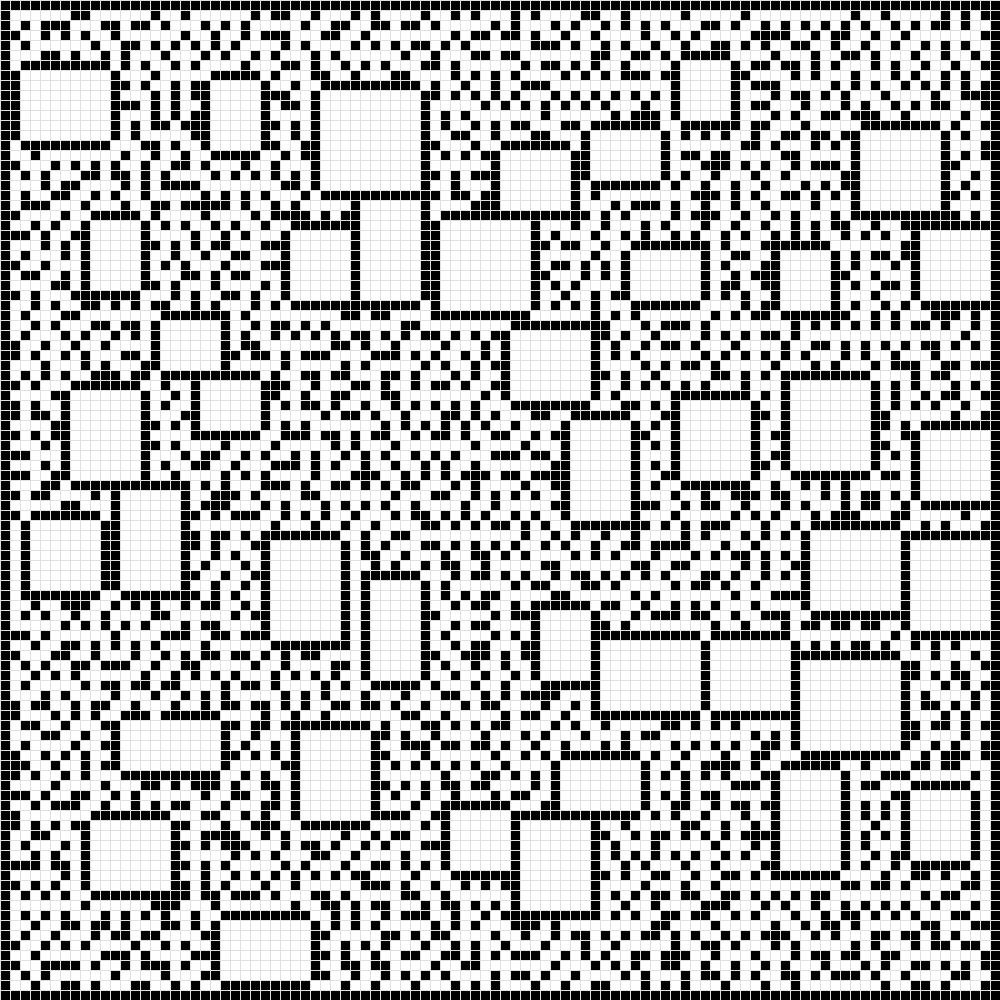
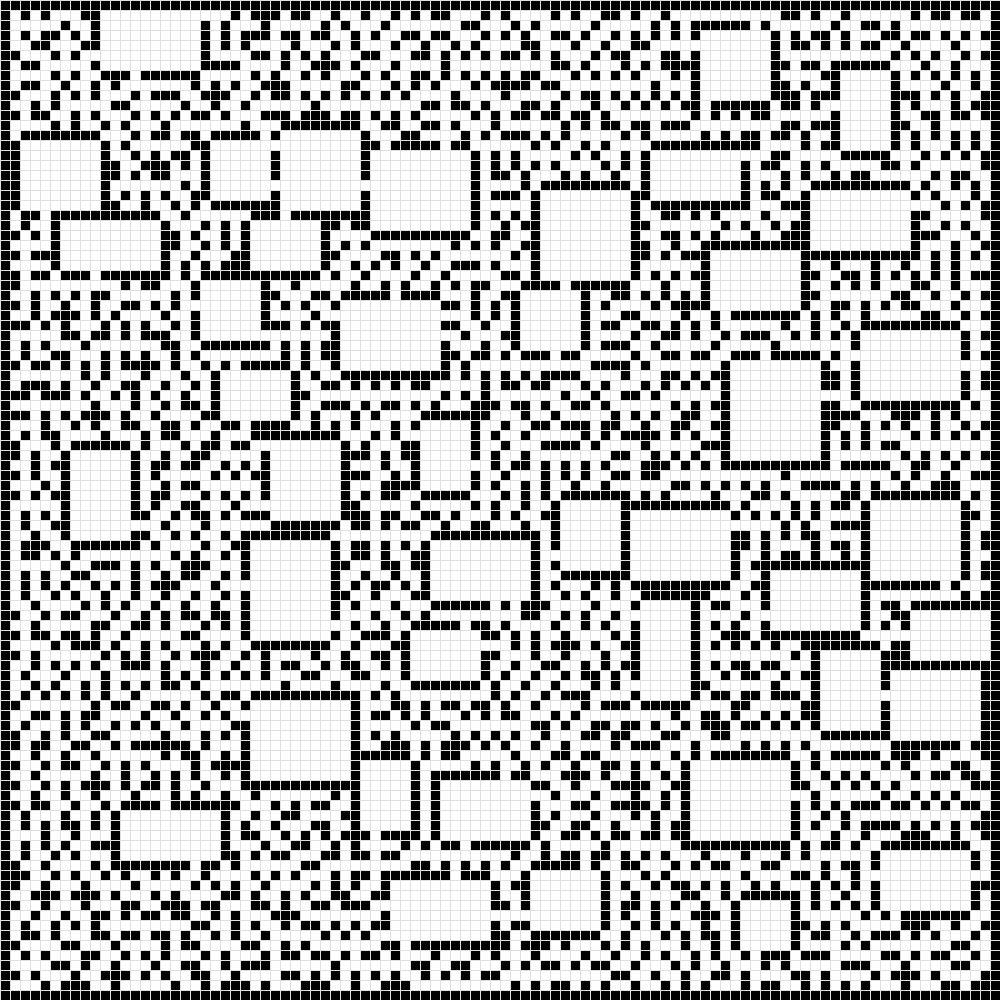
Corridors now connect to rooms correctly

diff --git a/src/services/maze_generation_service.py b/src/services/maze_generation_service.py
@@ -92,21 +92,23 @@ class MazeGenerationService:
         connections = self._get_connections()
         if connections:
             rand_connection = random.choice(list(connections.keys()))
-            origin_region = connections[rand_connection][1]
+            added_regions = {connections[rand_connection][0], connections[rand_connection][1]}
             self._map.occupy(rand_connection[0], rand_connection[1])
             self._maze_cells[rand_connection[0]][rand_connection[1]] = 'p'
             connections.pop(rand_connection)
-            """while connections:
+            while connections:
                 rand_connection = random.choice(list(connections.keys()))
-                if (connections[rand_connection][0] == origin_region
-                and connections[rand_connection][1] == origin_region):
+                if (connections[rand_connection][0] in added_regions
+                and connections[rand_connection][1] in added_regions):
                     if random.random() < odds_of_loops:
                         self._map.occupy(rand_connection[0], rand_connection[1])
                         self._maze_cells[rand_connection[0]][rand_connection[1]] = 'p'
                 else:
+                    added_regions.add(connections[rand_connection][0])
+                    added_regions.add(connections[rand_connection][1])
                     self._map.occupy(rand_connection[0], rand_connection[1])
                     self._maze_cells[rand_connection[0]][rand_connection[1]] = 'p'
-                connections.pop(rand_connection)""" # Commented out until issue can be figured out
+                connections.pop(rand_connection)
 
     def _get_connections(self):
         """Find all room-to-room or passage-to-room connections.

diff --git a/src/index.py b/src/index.py
@@ -16,7 +16,7 @@ def main():
     room_max_width = 10
     room_min_height = 5
     room_max_height = 10
-    odds_of_loops = 0
+    odds_of_loops = 0.05
     map_obj = Map(map_width, map_height)
     room_gen = RoomGenerationService(cell_width, cell_height, map_width, map_height)
     room_gen.generate_random_rooms(rooms_to_generate, room_min_width, room_max_width, room_min_height, room_max_height)
